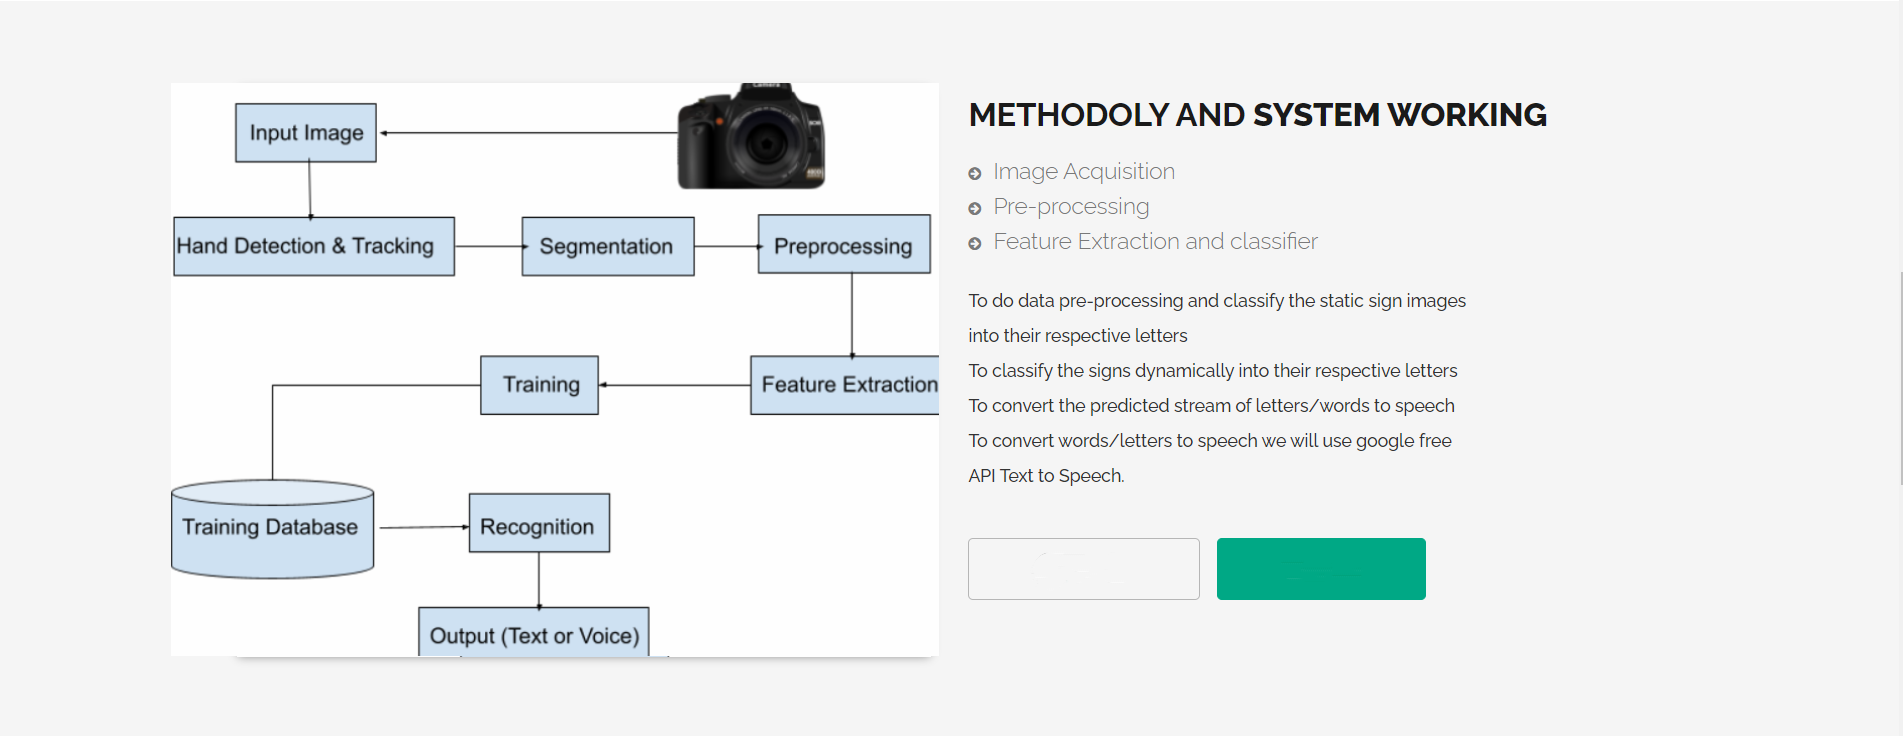
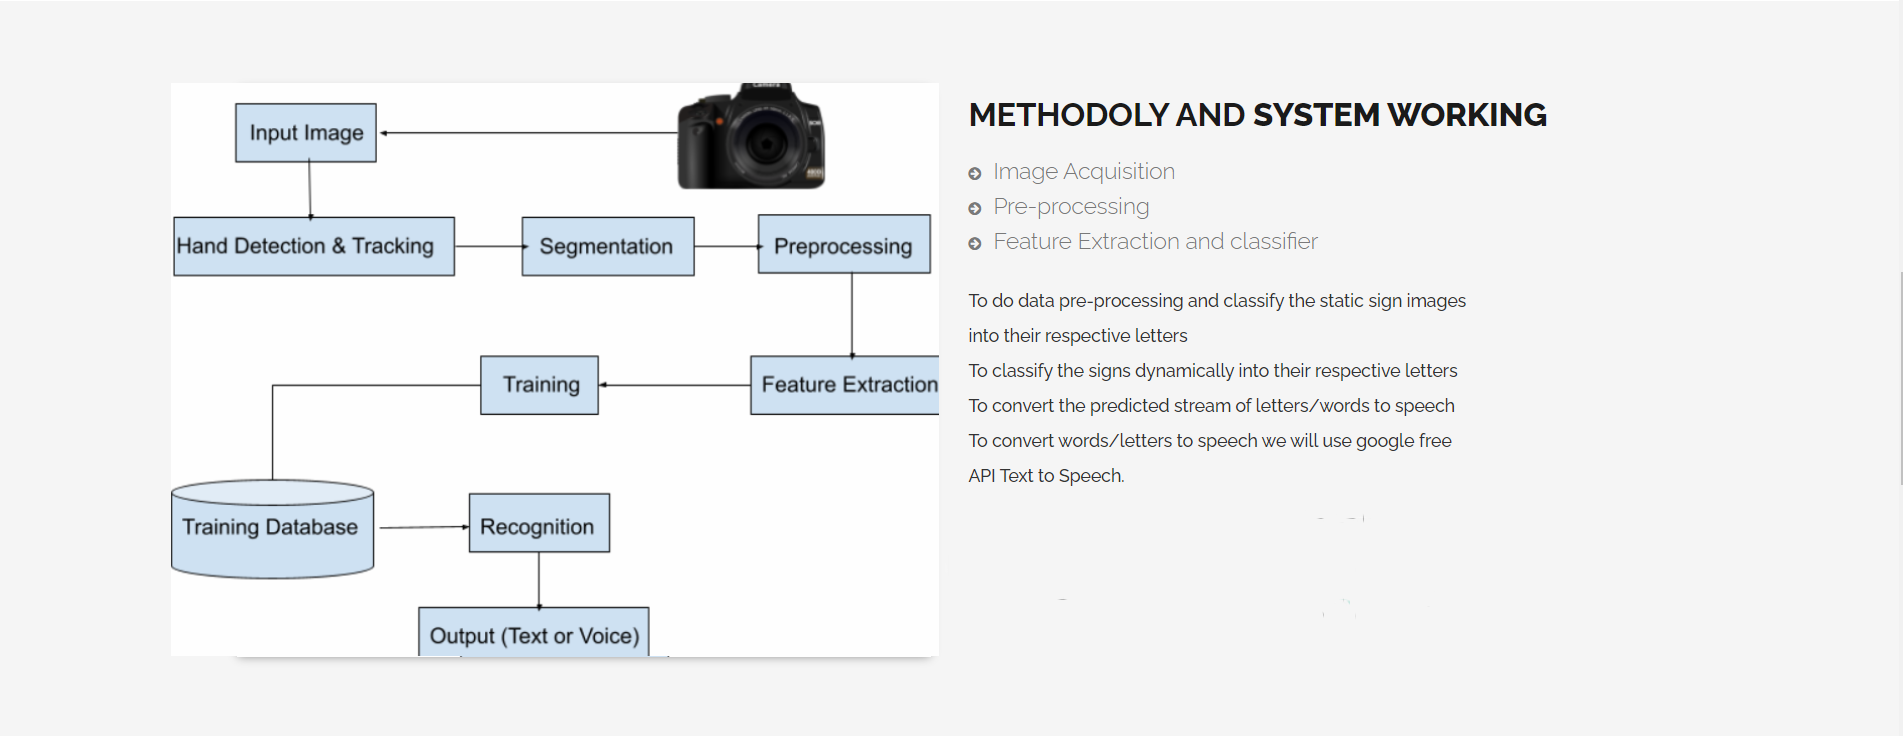
ok
ok

Changed region(s): [[0.6201, 0.7188, 0.7751, 0.8125]]

diff --git a/templates/index.html b/templates/index.html
@@ -44,18 +44,20 @@
             </div>
         </div>
     </nav>
-    <div style="width: 100%; overflow: hidden;">
-        <img src="{{url_for('static', filename='wel1.png')}}" style="width: 100%;" />
+    <div class="home" style="width: 100%; overflow: hidden;">
+        <!-- <img src="{{url_for('static', filename='home-bg.jpg')}}" style="width: 100%;height: 750px;" /> -->
         <!-- Position the "Read More" button at specific coordinates within the container -->
-        <div class="btn btn-default"
-       style="position: absolute; top: 570px; left: 700px; background-color: #fff; border: none; color: rgb(0, 168, 133);padding: 19px 80px;"
+        <div id="home-title">Welcome to ISL <br> Indian Sign language</div>
+        <div id="button-container">
+
+      <div class="btn btn-primary" id="button"
        onmouseover="this.style.backgroundColor='#f5f5f5'; this.style.color='#0a853e';"
        onmouseout="this.style.backgroundColor='rgb(0, 168, 133)'; this.style.color='#fff';" onclick="window.scrollTo(0,document.body.offsetHeight)">Try it Now</div>
        <!-- Position the "Try Now" button at specific coordinates within the container -->
-       <a href="#brand" class="btn btn-primary"
-       style="position: absolute; top: 570px; left: 935px; background-color: rgb(0, 168, 133); border: none; color: #fff;padding: 19px 80px;"
+       <a href="#brand" class="btn btn-primary"  id="button2"
        onmouseover="this.style.backgroundColor='#f5f5f5'; this.style.color='#0a853e';"
        onmouseout="this.style.backgroundColor='rgb(0, 168, 133)'; this.style.color='#fff';">For real time streaming</a>
+    </div>
     </div>
     
 
@@ -63,20 +65,28 @@
     <div style="width: 100%; overflow: hidden;">
         <img src="{{url_for('static', filename='2.png')}}" style="width: 100%;" />
     </div>
-    <div style="width: 100%; position: relative; overflow: hidden;">
-        <img src="{{url_for('static', filename='finalflow.png')}}" style="width: 100%;" />
-        
+
+
+
+
+    <div id="masw" style="width: 100%; position: relative; overflow: hidden;">
+        <!-- <img src="{{url_for('static', filename='finalflow.png')}}" style="width: 100%;" /> -->
+        <div class="msw1"></div>
+        <div class="msw1">
+            
         <!-- Position the "Read More" button at specific coordinates within the container -->
-        <a href="https://link.springer.com/article/10.1007/s00521-2019-04691-y" class="btn btn-default"
+        <a href="https://link.springer.com/article/10.1007/s00521-2019-04691-y" class="btn btn-default btn1"
        style="position: absolute; top: 536px; left: 960px; background-color: #fff; border: none; color: rgb(0, 168, 133);padding: 19px 80px;"
        onmouseover="this.style.backgroundColor='#f5f5f5'; this.style.color='#0a853e';"
        onmouseout="this.style.backgroundColor='rgb(0, 168, 133)'; this.style.color='#fff';">Read More</a>
 
         <!-- Position the "Try Now" button at specific coordinates within the container -->
-        <a href="#brand" class="btn btn-primary"
+        <a href="#brand" class="btn btn-primary btn1 "
        style="position: absolute; top: 536px; left: 1210px; background-color: rgb(0, 168, 133); border: none; color: #fff;padding: 19px 80px;"
        onmouseover="this.style.backgroundColor='#f5f5f5'; this.style.color='#0a853e';"
        onmouseout="this.style.backgroundColor='rgb(0, 168, 133)'; this.style.color='#fff';">Try Now</a>
+    
+    </div>
     </div>
     
 

diff --git a/static/css/custom.css b/static/css/custom.css
@@ -118,10 +118,13 @@ body {
     position: relative;
     padding: 100px 0;
     text-align: center;
-
+display: flex;
+justify-content: center;
+flex-direction: column;
+align-items: center;
     /* Add these properties to ensure the image covers the entire background */
     width: 100%;
-    height: 100%;
+    height: 750px;
 }
 
 
@@ -148,9 +151,10 @@ home h3 {
 }
 
 /* Style buttons */
-.home .btn {
-    margin-top: 20px;
-    padding: 10px 20px;
+.btn {
+
+  margin-left: 10px;
+height: 100%;
     text-decoration: none;
     color: #fff;
     border: none;
@@ -159,6 +163,23 @@ home h3 {
     transition: background-color 0.3s ease;
 }
 
+#button{
+
+    font-weight: 600;
+    border: none;
+    display: flex;
+    justify-content: center;
+    align-items: center;
+    font-size: large;
+}
+#button2{
+    font-weight: 600;
+    border: none;
+    display: flex;
+    justify-content: center;
+    align-items: center;
+    font-size: large;
+}
 home .btn.btn-primary {
     background-color: #007bff;
 }
@@ -193,6 +214,59 @@ home .btn:hover {
     justify-content: center;
     height: 100vh; /* Adjust the height as needed */
 }
+#home-title{
+    font-size: 70px;
+    font-weight: 500;
+    color: white;
+}
+#button-container{
+  
+    width: 100%;
+    display: flex;
+    justify-content: center;
+height: 60px;
+
+    display: flex;
+    flex-direction: row;
+    margin-top: 70px;
+}
+
+
+#masw{
+    background-image: url("/static/finalflow.png");
+    width: 100%;
+    height: 730px;
+  display: flex;
+  flex-direction: row;
+
+}
+.msw1{
+width: 50%;
+height: 100%; 
+
+}
+.btn1{
+    height: 60px;
+}
+
+
+
+
+
+
+
+
+
+
+
+
+
+
+
+
+
+
+
 
 
 /* Add additional CSS rules as needed for other elements within .culmn */

diff --git a/app.py b/app.py
@@ -31,4 +31,4 @@ def mentor():
 
 # Driver code
 if __name__ == "__main__":
-    app.run(host = "0.0.0.0",port=9000, debug=True)
+    app.run(host = '0.0.0.0')
